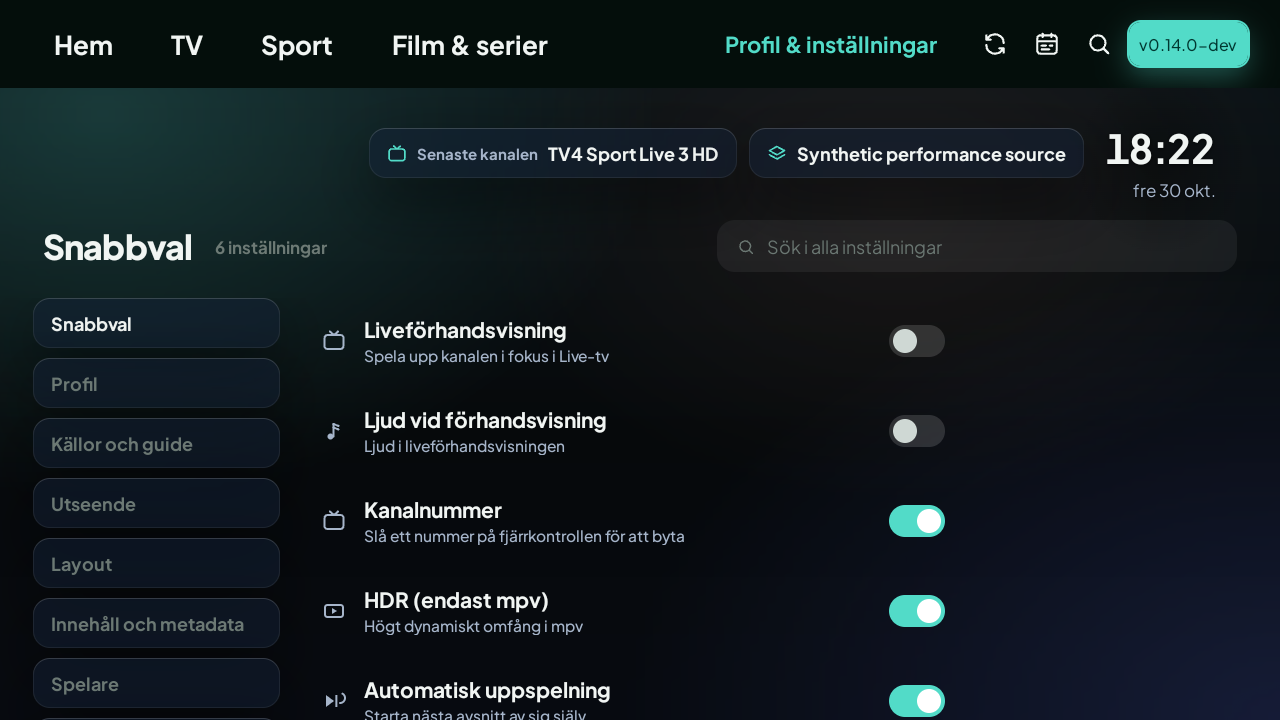
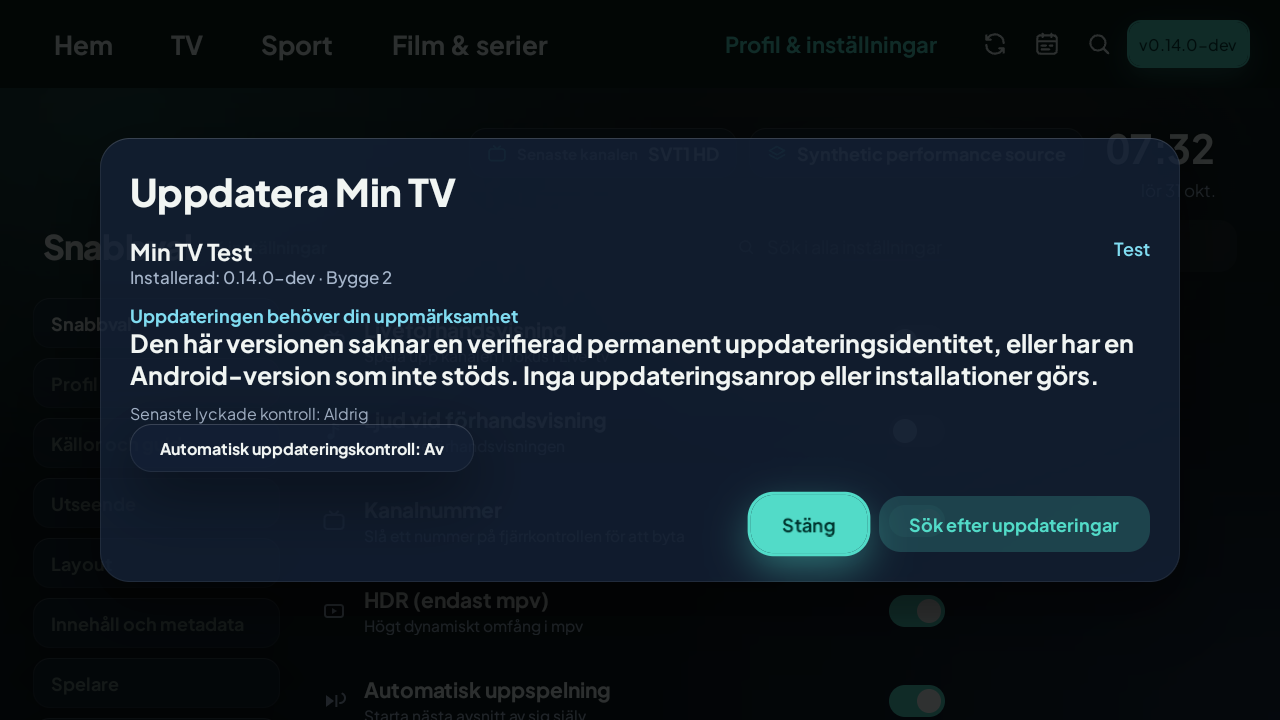
test: verify Down and Up through Sport recovery in persisted startup

diff --git a/app/src/androidTest/java/tv/own/owntv/home/ProductionStartupTest.kt b/app/src/androidTest/java/tv/own/owntv/home/ProductionStartupTest.kt
@@ -514,10 +514,12 @@ class ProductionStartupTest {
                 compose.onNodeWithTag("top-SPORT").assertIsFocused()
                 compose.onNodeWithTag("top-TV").assertIsSelected()
                 press(KeyEvent.KEYCODE_DPAD_DOWN)
-                compose.waitForIdle()
-                compose.onNodeWithTag("top-SPORT").assertIsFocused()
+                // Disabled hockey now has an explicit recovery action, so Down enters content.
+                compose.waitUntil(5_000) { runCatching { compose.onNodeWithTag("sport-empty-action").assertIsFocused(); true }.getOrDefault(false) }
                 compose.onNodeWithTag("top-SPORT").assertIsSelected()
                 assertNavigationLevels(contextual = false)
+                press(KeyEvent.KEYCODE_DPAD_UP)
+                compose.onNodeWithTag("top-SPORT").assertIsFocused()
                 nativeCapture("sport")
                 compose.onNodeWithTag("top-VOD").performClick()
                 compose.onNodeWithTag("sub-MOVIES").assertExists()

diff --git a/docs/evidence/v016/phase2/README.md b/docs/evidence/v016/phase2/README.md
@@ -83,3 +83,9 @@ Rollback: revert this phase independently of reused #33-35/earlier cohesion. No 
 Memory investigation: mean native-heap summary grows about **6.7 / 9.0 MiB**, Java about **3.1 / 1.7 MiB** (1080p/720p); code memory slightly decreases. The native libraries are unchanged. No new decoder or catalogue-content cache was introduced. ART reports about **2.4 GB allocated per candidate journey versus 5.8 GB baseline**, with 169/172 versus 408/524 collections; these are cumulative churn, not retained heap. Lower churn/CPU does not prove a memory reduction or absence of a leak. The sampled memory cost remains unresolved pending retained-object/native allocation profiling on approved physical QA.
 
 Sport's +27/+11 ms, Settings 720p's +17 ms and VOD movement's +15 ms are preserved regressions. Extra native recovery/action UI is present, but these one-process software-GPU samples do not establish its causal contribution. Header D-pad, resume and frame p95 are broadly unchanged; no blanket speedup claim. Reader counts show essentially **no query/request-count reduction** in this instrumented scope; the measured gain is reduced work/churn, not claimed EPG/network savings.
+
+### CI follow-up
+
+On `2e13080`, i18n, full build/unit/lint, Home D-pad/Room, signing/upgrade and the complete synthetic performance workflow passed. The persisted production-startup job caught an obsolete expectation: Down into disabled/empty Sport used to remain in the header. The new recovery action is real content, so the regression now requires Down to focus it, no extra persistent menu, and Up back to active Sport. This is a **test-only follow-up**, preserving the production sources/APK used for all measurements. Both complete populated persisted-startup/recreation journeys then pass locally at 1080p and 720p; the new exact head must still complete full CI.
+
+The original before/720p Update frame had not finished drawing its modal. It was independently recaptured using the exact old `016e956` production APK and a bounded synthetic performance profile. The unedited replacement shows the debug guard; its later clock and harness hash are recorded in provenance. The remaining before pictures are unchanged.
